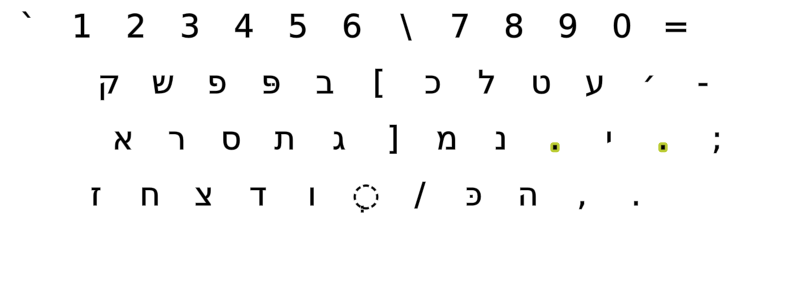
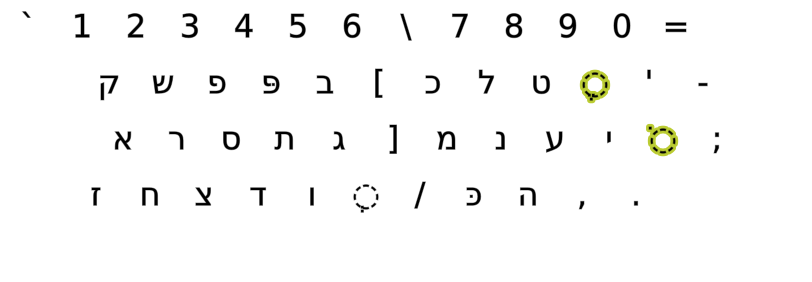
Hebrew phonetic Colemak
* The HebMak layout is nearly finished now. Yay!
* Added suspendingApps to the Settings GUI

Changed region(s): [[0.7081, 0.227, 0.8005, 0.3688], [0.8005, 0.4255, 0.8621, 0.5674], [0.6773, 0.4539, 0.7081, 0.539]]

diff --git a/Source/README.md b/Source/README.md
@@ -343,11 +343,11 @@ DONE:
 	- Cut back on VK ## letter mappings in `BaseLayout_Cmk-eD.ini`, as these cause some chained dead key outputs like ự and ậ to be preceded by an unwanted space.
 	- Mirrored Colemak BaseLayouts. The AltGr layer holds mirror mappings, and ergo mods can be used normally. The Sym mod may not be ideal for it.
 		- There's a separate base layout for Cmk-DH to make mirroring work as it should. Curl mod remaps should not be added to the resulting layout, just other mods.
-  
-	- The AHK Send command sends active modifiers up before a sent character/string, and down/up after. This could be what has caused a stuck `LCtrl` when using `AltGr` fast.
-		- Specifically, after an `AltGr` key press AHK sends both `LCtrl` and then `LCtrl+Ralt` down/up. If this happens too fast, they may get jumbled.
-		- Tried adding `{LCtrl Up}` to getAltGrState(), ~15 ms after `{LCtrl Down}{RAlt Down}`. But this did not fix the problem.
-		- Using the AHK v1.1.27 `{Text}` mode avoids the first `LCtrl`, so it is now used whenever a single character is sent.
+	- The AHK Send command sends active modifiers up before a sent character/string, and down after, before the final up as you release them physically.
+		- Specifically, after an `AltGr` key press AHK sends both `LCtrl` and `LCtrl+Ralt` down/up. If this happens too fast, they may get jumbled.
+		- Tried adding `{LCtrl Up}` to getAltGrState(), ~15 ms after `{LCtrl Down}{RAlt Down}`. It did not fix the stuck `LCtrl` problem.
+		- Using the AHK v1.1.27 `{Text}` mode avoids the first `LCtrl`, so it may help.
+		- However, Text mode doesn't work with Win+Key shortcuts, so it's only used for single-glyph mappings on AltGr layers.
 	- Seems all the `LCtrl+RAlt` sending around `AltGr` in `pkl_SendThis() `wasn't necessary? It has been removed.
   
 

diff --git a/Layouts/Colemak/Cmk-eD-He/README.md b/Layouts/Colemak/Cmk-eD-He/README.md
@@ -1,10 +1,8 @@
 DreymaR's Big Bag Of Keyboard Tricks - EPKL
 ===========================================
 
-|![EPKL help image for Colemak-eD-He AWide on an ISO board, unshifted state](./Cmk-eD-He_ISO_AWide/state0.png)|
-|   :---:   |
-|_Colemak-eD-He_ISO_AWide, unshifted state._|
-<br>
+![EPKL help image for Colemak-eD-He Angle-ISO](./Cmk-Heb_ISO-Angle_s0_EPKL.png)
+  
 
 Colemak[eD] locale layouts
 --------------------------
